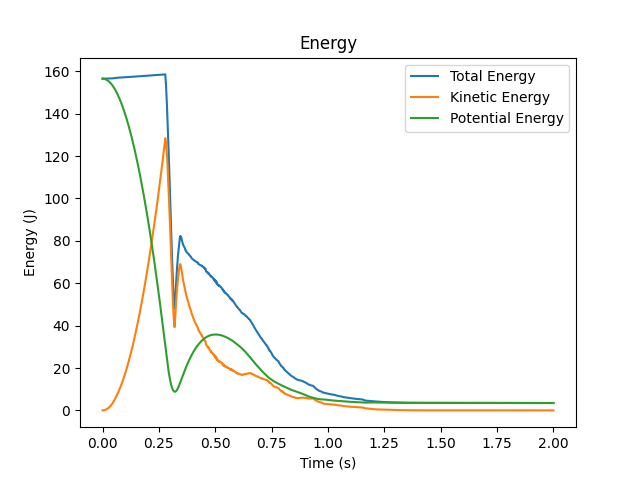
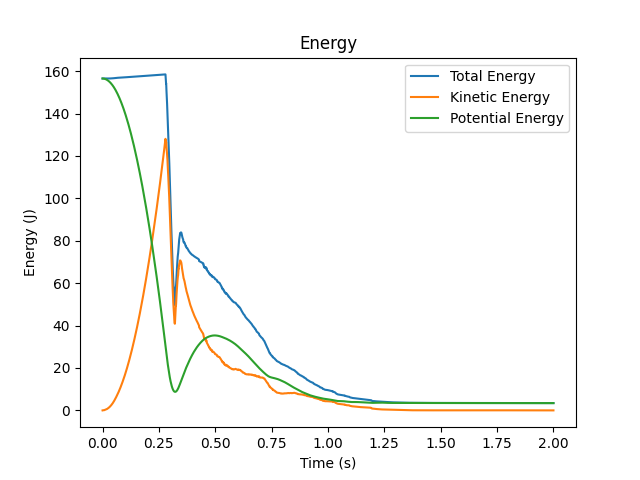
Fixed a small error and updated the resuts

diff --git a/src/sph_solver.cpp b/src/sph_solver.cpp
@@ -409,5 +409,5 @@ void SphSolver::adaptiveTimestep(Fluid &data) {
 
   // Update the timestep based on the CFL number
   dt = std::min(coeffCfl1 * h / maxVelocity,
-                coeffCfl1 * pow(h / maxAcceleration, 0.5));
+                coeffCfl2 * pow(h / maxAcceleration, 0.5));
 }

diff --git a/docs/Adaptive_timestep.md b/docs/Adaptive_timestep.md
@@ -22,13 +22,13 @@ void SphSolver::adaptiveTimestep(Fluid &data) {
 
 ## Efficiency and further considerations
 
-With the default  factors $\lambda _\nu $ and $\lambda _f$, the adaptive timestep approach required 9601 iterations to simulate a falling droplet of 800 particles in opposition to the constant timestep approach which would require 20000 iterations. A selection of $\lambda _\nu = 0.075 $ and $\lambda _f = 0.05$ resulted to only 6113 iterations with the following results.
+With the default  factors $\lambda _\nu $ and $\lambda _f$, the adaptive timestep approach required 15994 iterations to simulate a falling droplet of 800 particles in opposition to the constant timestep approach which would require 20000 iterations. A selection of $\lambda _\nu = 0.075 $ and $\lambda _f = 0.05$ resulted to only 8188 iterations with the following results.
 
 <div style="text-align: center;">
     <img src="images/cfl_default.png" alt="Alt Text 1" style="display: inline-block; width: 400px;">
     <img src="images/cfl1_0.075_cfl2_0.05.png" alt="Alt Text 2" style="display: inline-block; width: 400px;">
 </div>
 
- ***Energy plots with the default CFL coefficients (left) and with $\lambda _\nu = 0.075 $ , $\lambda _f = 0.05$ (right).***
+ ***Energy plots with the default CFL coefficients (left) and with $\lambda _ \nu = 0.075$ , $\lambda _ f = 0.05$ (right).***
 
 Although the adaptive timestep introduces an extra layer of robustness and potentially increased efficiency, different fluids and cases require an adjustment of the CFL coefficients in order to exploit the advantages of the approach and therefore, the user should be careful in their selection.
